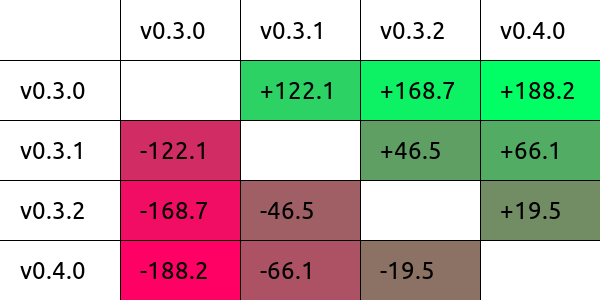
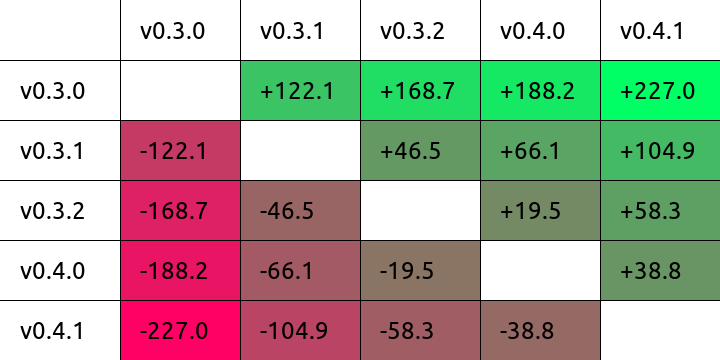
Added ELO table for v0.4.1 +227.0 ELO from v0.3.0 Bench: 2196682

diff --git a/docs/releases.md b/docs/releases.md
@@ -11,6 +11,8 @@ The move generation is perfect when compared to [these results](https://www.ches
 There are many projects going on about search, multithreading, eval, and Monte Carlo Tree Search.
 Those may be merged shortly.
 
+Bench: 2196682
+
 ## [Megalodon 0.4.0][v0.4.0]
 
 This release contains many bug fixes in move generation.
